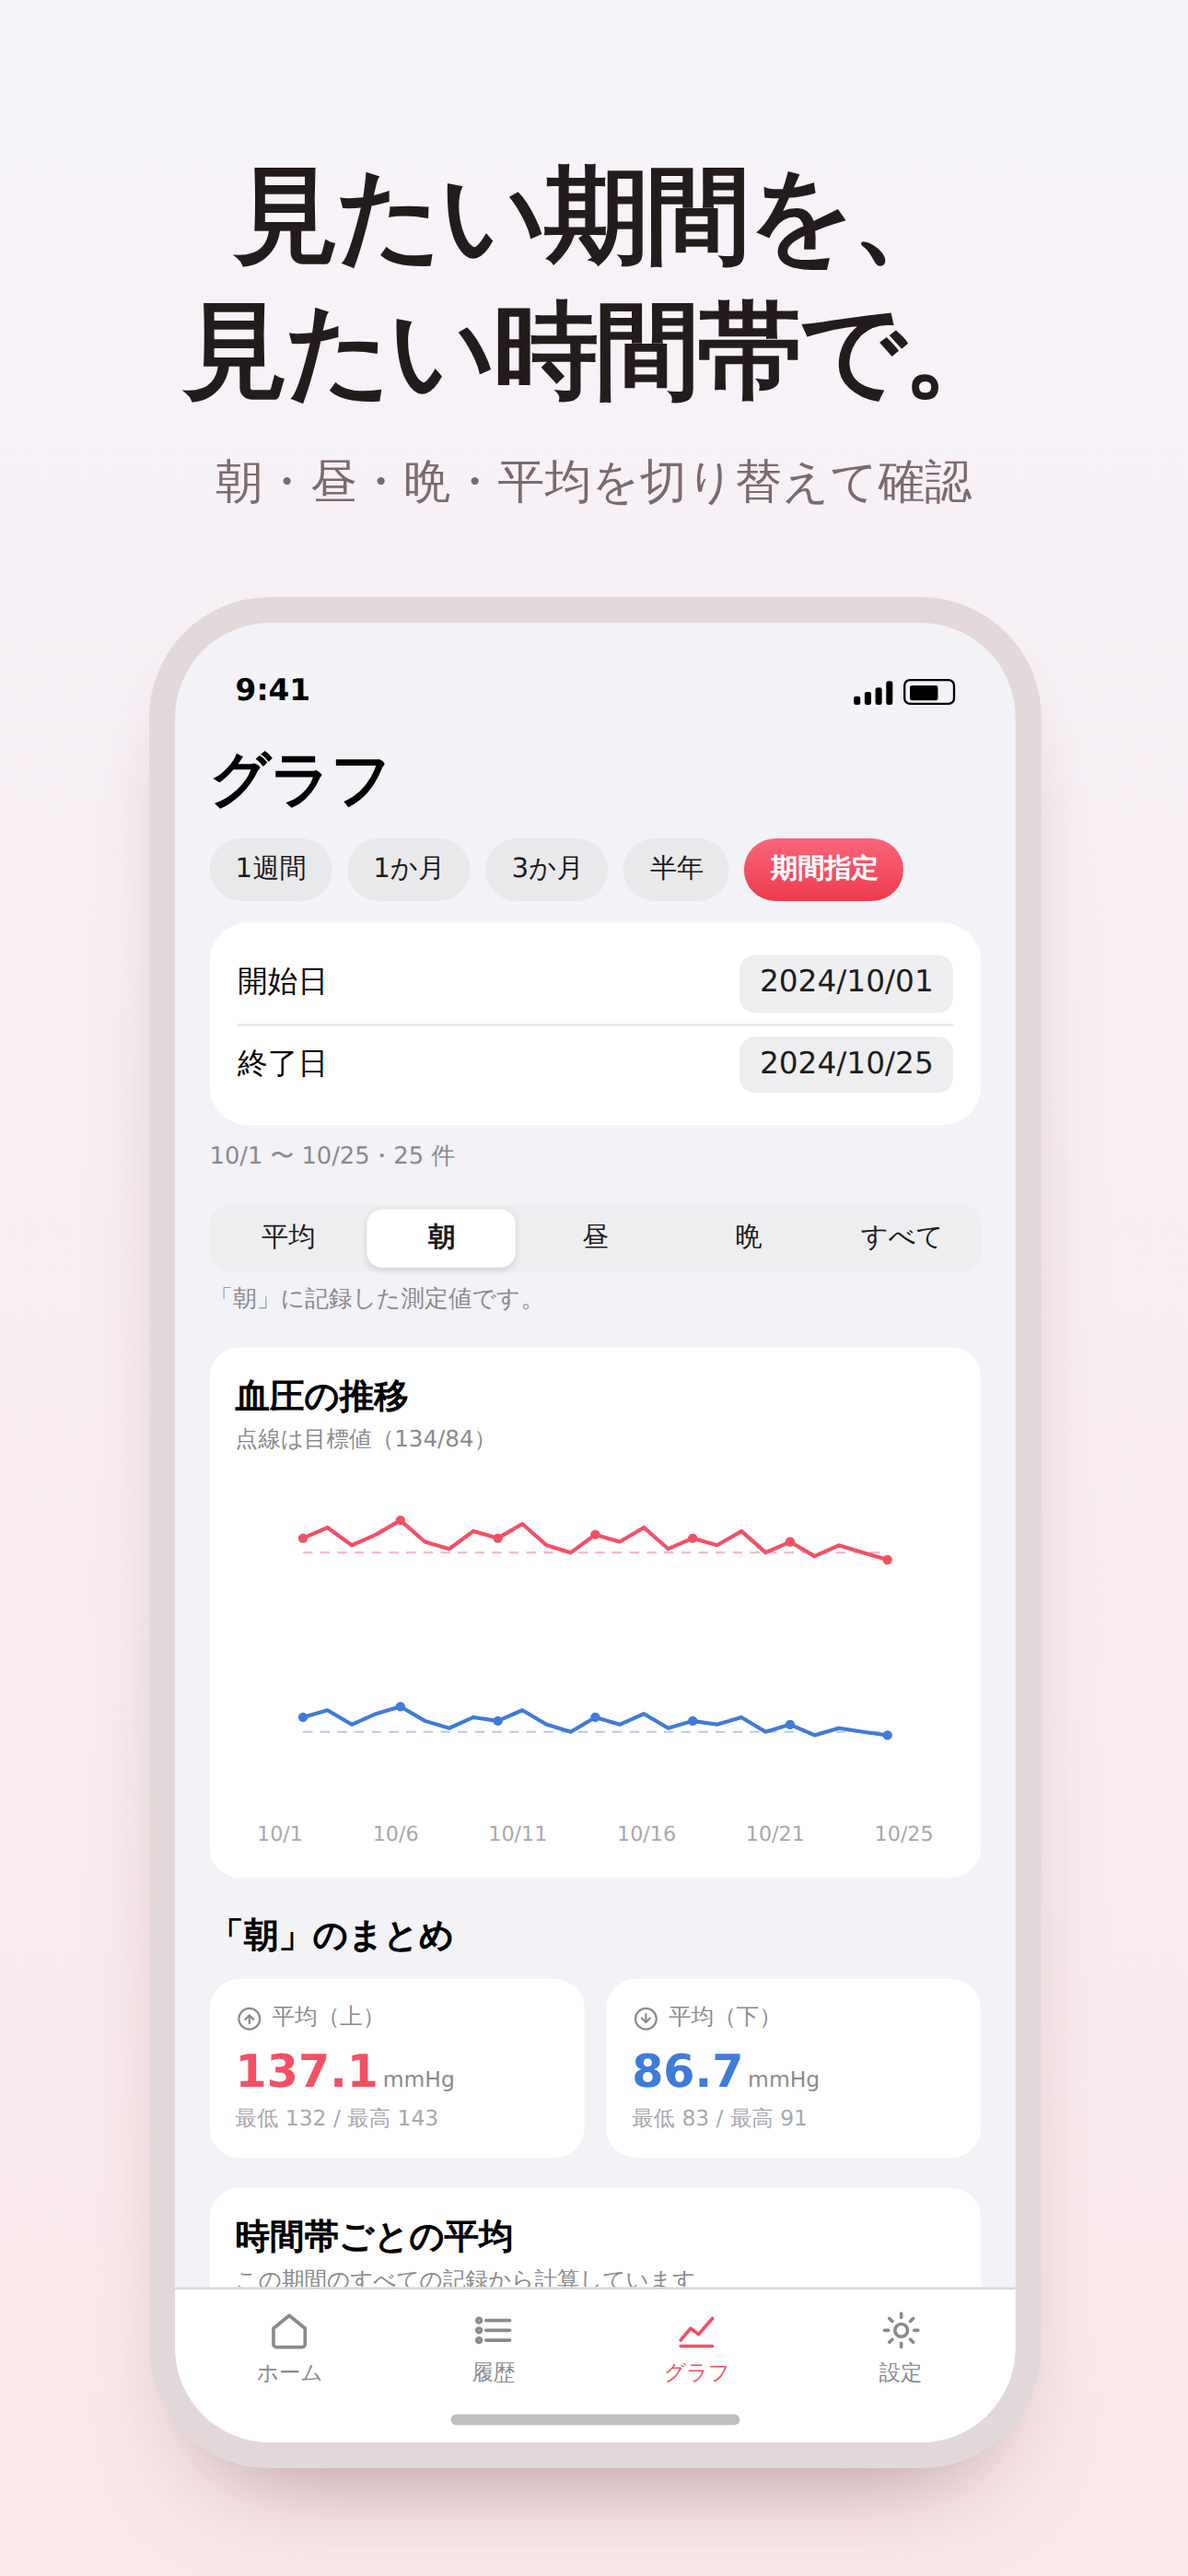
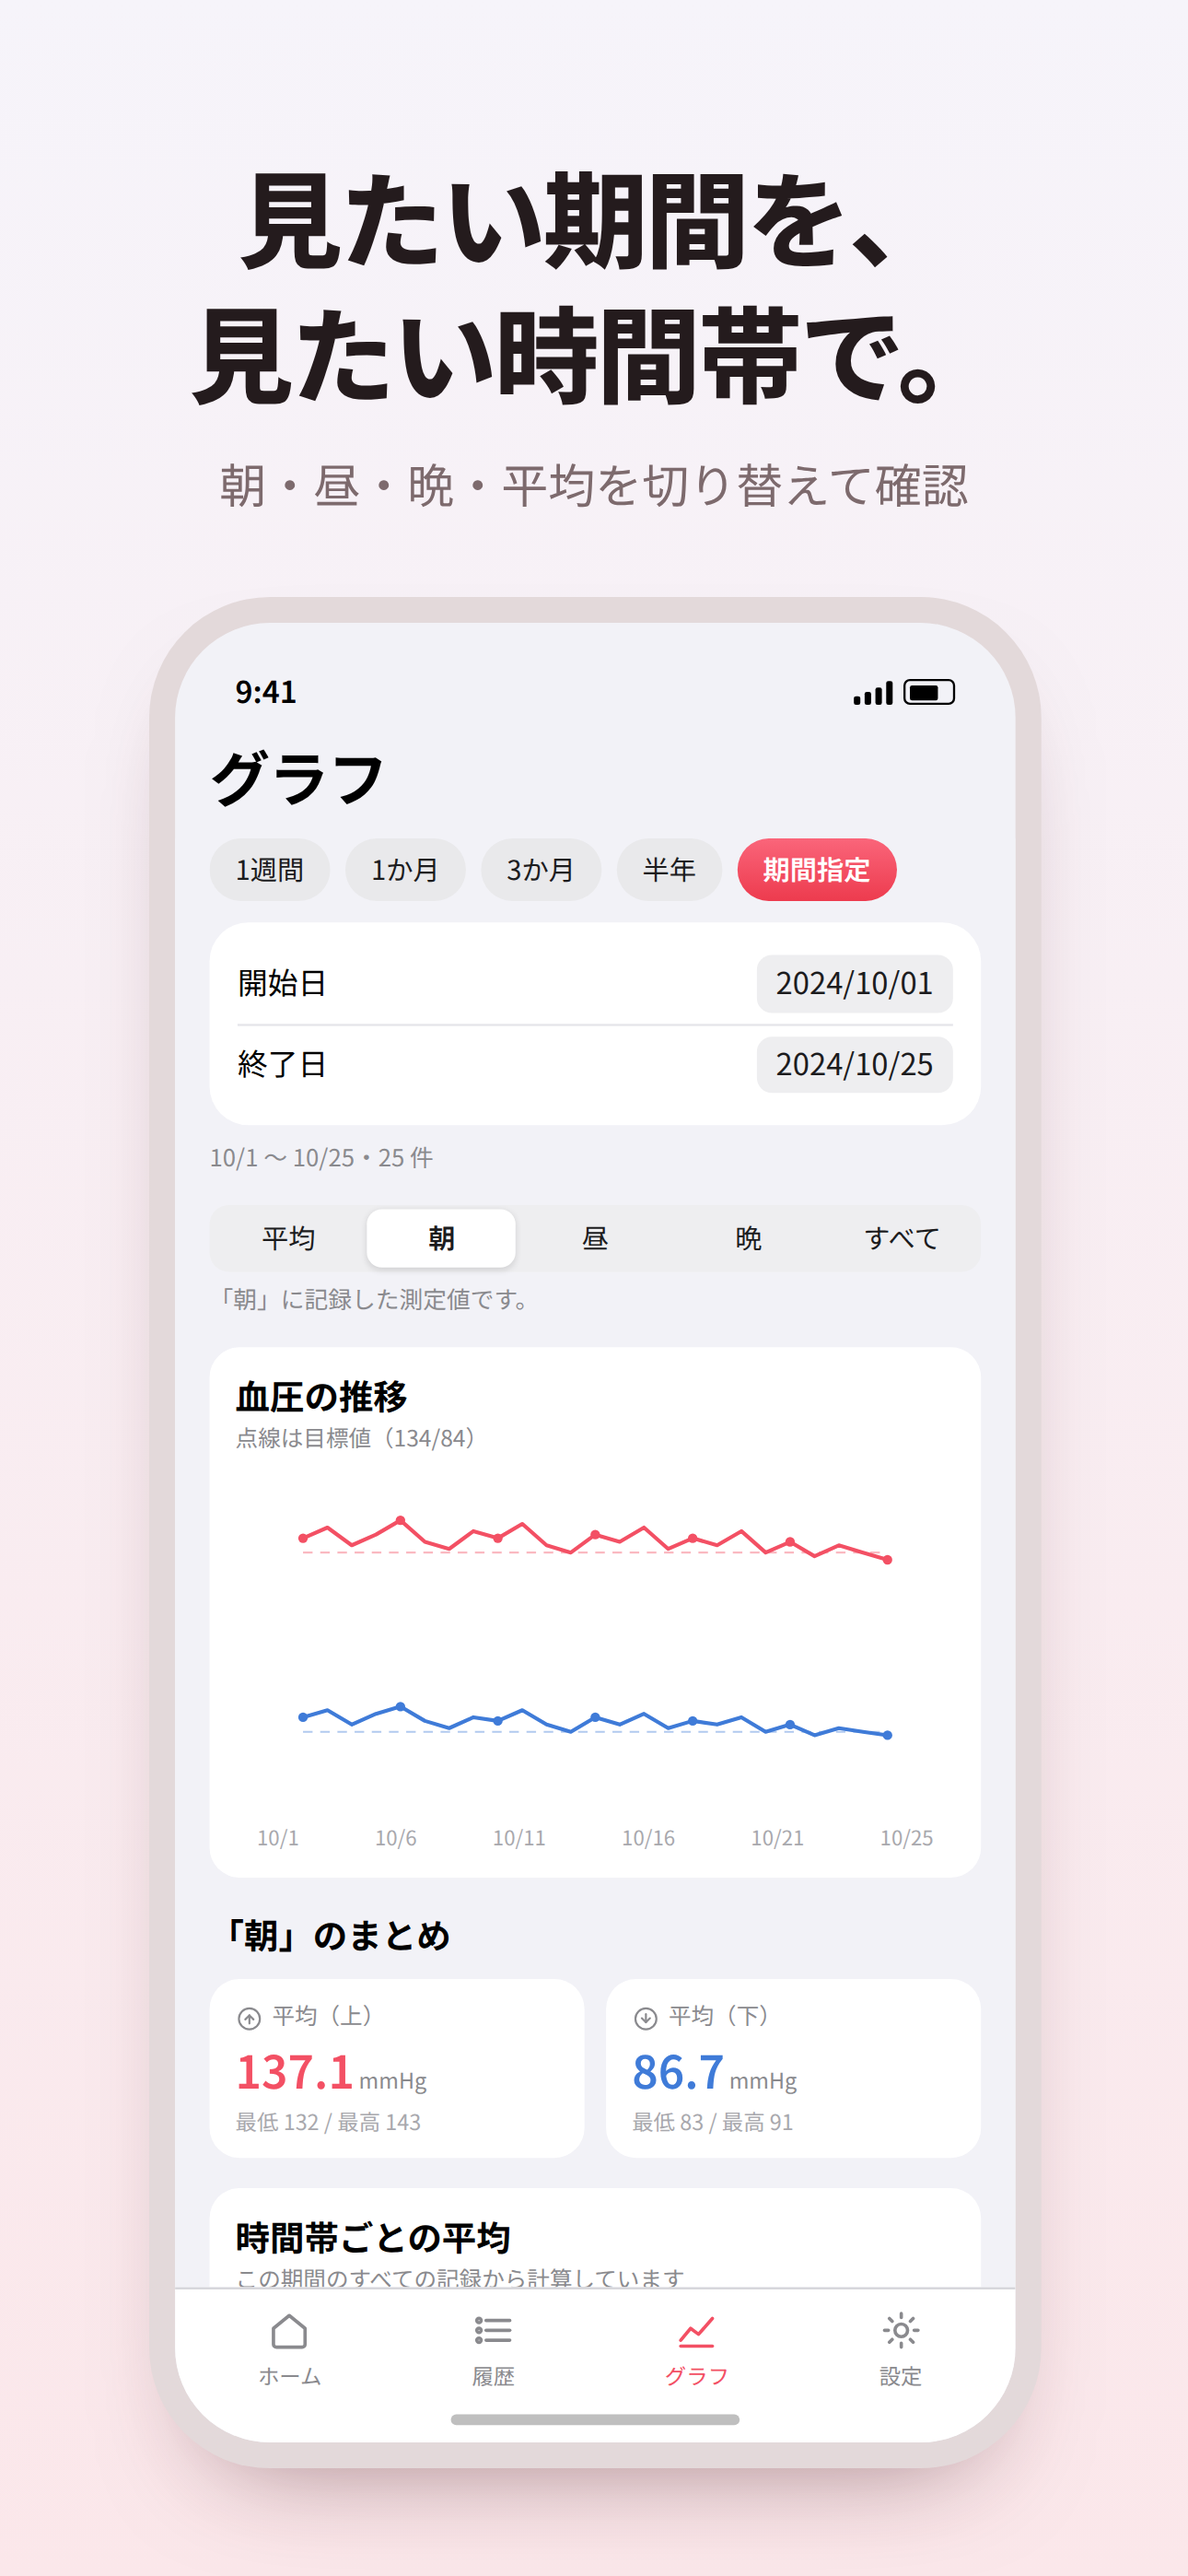
ストア用スクリーンショットの漢字が中国語字形になっていたのを修正
生成環境に日本語フォントが無く、CSS のフォント指定（macOS 向け）が
すべて外れて中国語フォントへフォールバックしていた。日本語フォントを
入れて 6 枚とも作り直した。

- Noto Sans JP で描画し直し（直・週・録 などの字形が正しくなった）
- 生成スクリプトに、Linux で実行する際のフォント要件を追記

Claude-Session: https://claude.ai/code/session_018HAYMa2m97p6B75hSyZWHe

diff --git a/Store/generate_screenshots.py b/Store/generate_screenshots.py
@@ -10,6 +10,14 @@
 必要なもの:
     pip3 install playwright pillow
     （このリポジトリの開発環境では Chromium のパスを CHROMIUM_PATH で指定できる）
+
+Linux で実行する場合は日本語フォントを入れておくこと。入っていないと中国語字形の
+フォントで描画され、漢字の形が変わってしまう（直・週・録・語 など）。
+
+    apt-get install fonts-noto-cjk
+    もしくは Noto Sans JP を /usr/share/fonts/ に置いて fc-cache -f
+
+macOS ではヒラギノが使われるため、そのままで問題ない。
 """
 
 from __future__ import annotations
